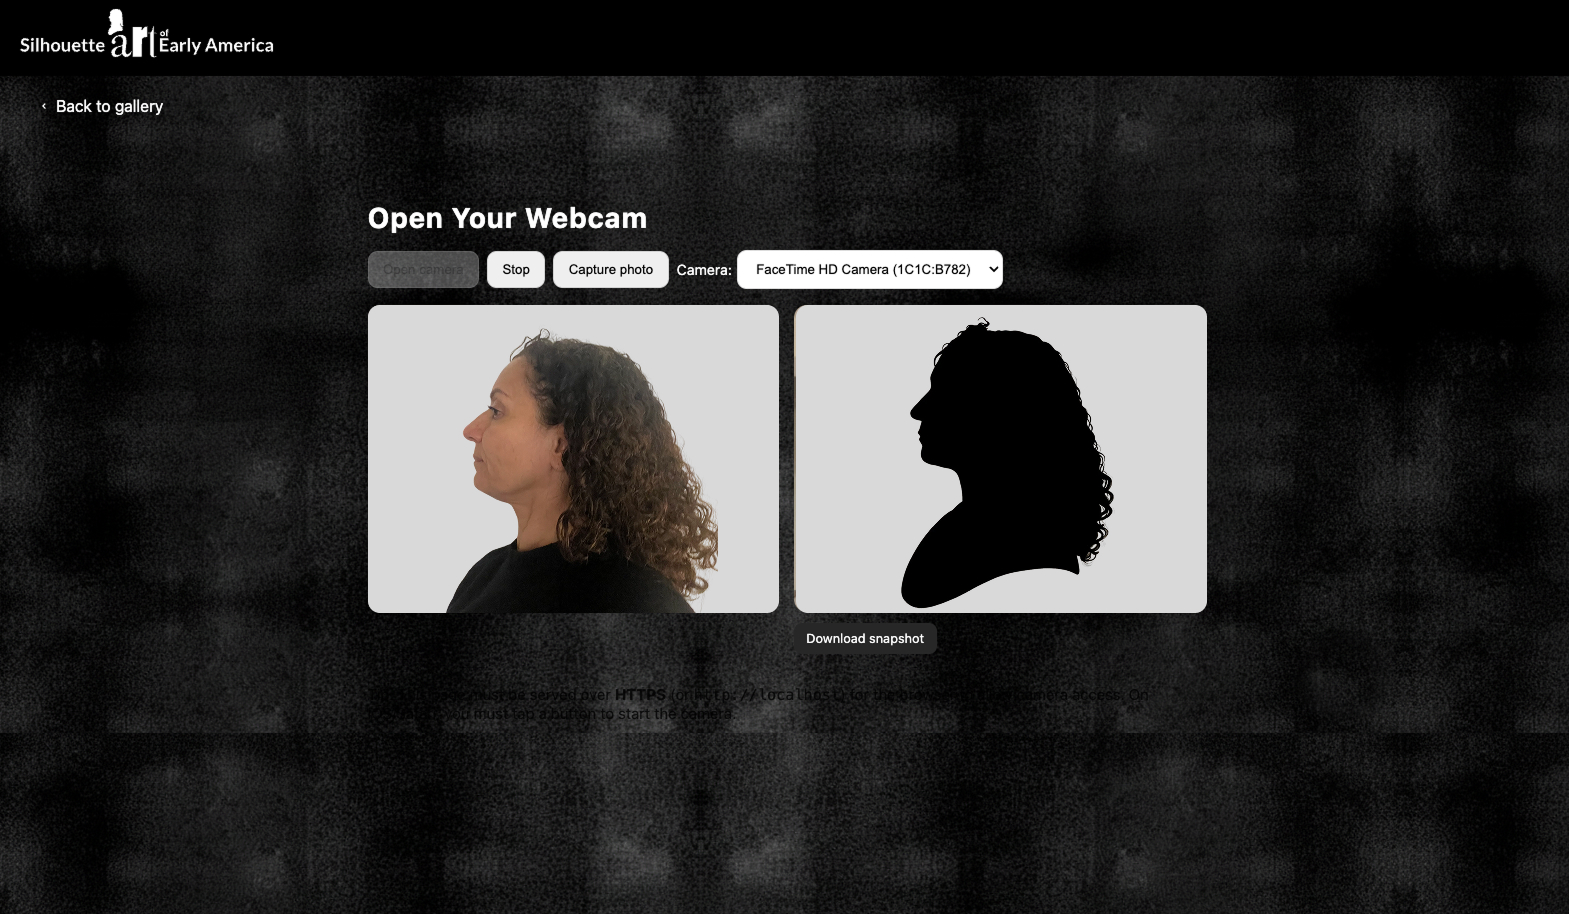
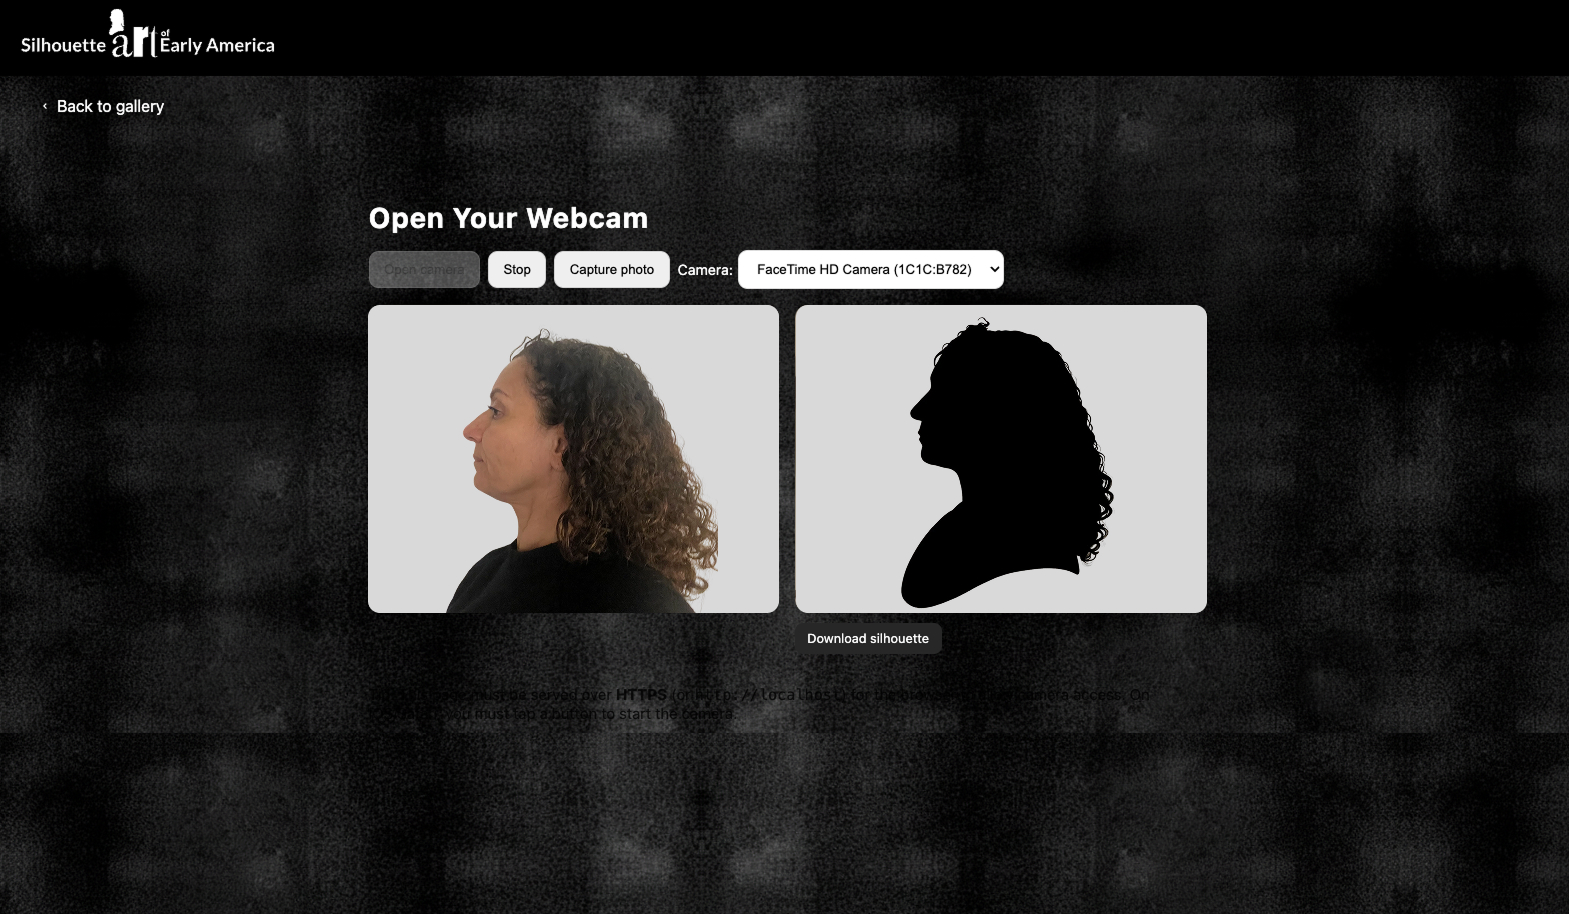
screenshots

diff --git a/selfie.html b/selfie.html
@@ -9,128 +9,7 @@
     <link rel="stylesheet" href="selfie.css">
 
     <title>Webcam Button Demo</title>
-    <!-- <style>
-        :root {
-            color-scheme: light dark;
-        }
 
-        body {
-            font-family: system-ui, -apple-system, "Segoe UI", Roboto, Helvetica, Arial, sans-serif;
-            margin: 0;
-
-            min-height: 100vh;
-            display: flex;
-            align-items: center;
-            /* vertical center */
-            justify-content: center;
-            /* horizontal center */
-            background-color: rgb(255, 255, 255);
-        }
-
-
-
-        /* Back to gallery link below the logo */
-        #back-gallery {
-            color: #fff;
-            background: rgba(255, 255, 255, 0.06);
-            padding: 6px 10px;
-            border-radius: 6px;
-            text-decoration: none;
-            font-size: 0.65rem;
-            display: inline-flex;
-            align-items: center;
-        }
-
-
-
-        .wrap {
-            display: grid;
-            gap: 1rem;
-            max-width: 900px;
-            width: 100%;
-            padding: 2rem;
-        }
-
-        h1 {
-            font-size: 1.75rem;
-            margin-bottom: 0;
-            color: #ffffff;
-        }
-
-        .controls {
-            display: flex;
-            flex-wrap: wrap;
-            gap: .5rem;
-            align-items: center;
-        }
-
-        button,
-        select {
-            padding: .6rem .9rem;
-            border-radius: .6rem;
-            border: 1px solid #8884;
-            cursor: pointer;
-        }
-
-        video,
-        canvas,
-        img {
-            width: 100%;
-            max-width: 640px;
-            border-radius: .8rem;
-            /* border: 1px solid #8884; */
-            background: #000;
-        }
-
-        .row {
-            display: grid;
-            grid-template-columns: 1fr 1fr;
-            gap: 1rem;
-        }
-
-
-        #downloadLink {
-            font-family: system-ui, -apple-system, "Segoe UI", Roboto, Helvetica, Arial, sans-serif;
-            font-size: 0.8rem;
-            display: inline-block;
-            margin-top: .5rem;
-            padding: .5rem .8rem;
-            background: #272727;
-            color: #fff;
-            text-decoration: none;
-            border-radius: .5rem;
-        }
-
-
-        @media (max-width: 900px) {
-            .row {
-                grid-template-columns: 1fr;
-
-            }
-        }
-
-
-
-        @media (max-width: 480px) {
-            #back-gallery {
-                left: 72px;
-                font-size: 0.85rem;
-                padding: 5px 8px;
-            }
-
-        }
-
-
-        .note {
-            font-size: .95rem;
-            opacity: .8;
-        }
-
-        .error {
-            color: #b00020;
-            font-weight: 600;
-        }
-    </style> -->
 </head>
 
 <body>
@@ -178,7 +57,7 @@
                 <canvas id="canvas" width="640" height="480" hidden></canvas>
                 <img id="preview" alt="Snapshot will appear here" />
                 <div class="controls">
-                    <a id="downloadLink" download="snapshot.png" hidden>Download snapshot</a>
+                    <a id="downloadLink" download="snapshot.png" hidden>Download sihouette</a>
                 </div>
             </div>
         </div>
@@ -279,7 +158,7 @@
             preview.src = dataUrl;
             downloadLink.href = dataUrl;
             downloadLink.hidden = false;
-            downloadLink.textContent = 'Download snapshot';
+            downloadLink.textContent = 'Download silhouette';
         }
 
         function showError(err) {
